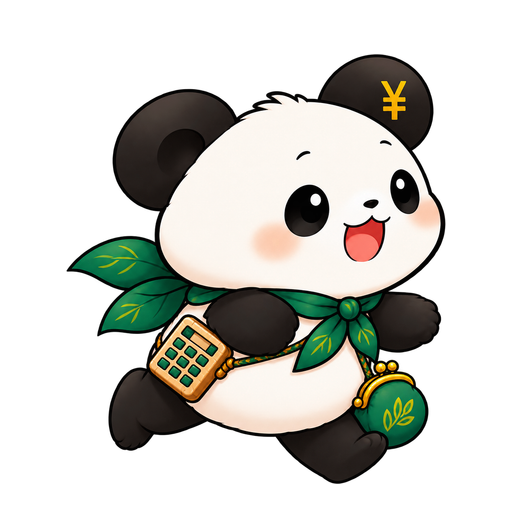
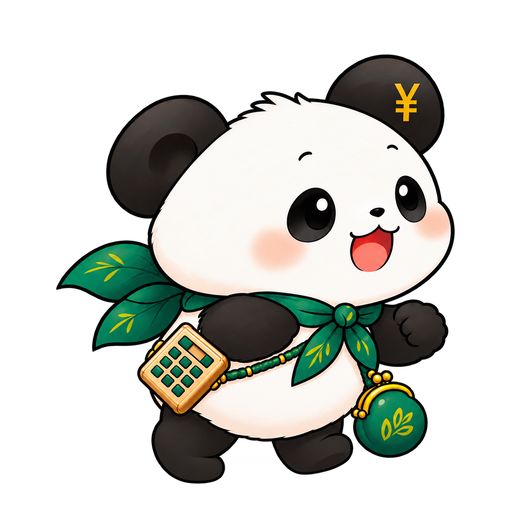
Alternate Panda Dash running legs

diff --git a/index.html b/index.html
@@ -63,5 +63,5 @@
 <dialog id="figure-dialog" aria-label="図を拡大表示"><button class="close" aria-label="図を閉じる">×</button><img alt=""></dialog>
 <dialog id="dash-dialog" aria-labelledby="dash-title"><button class="dash-close" id="dash-close" type="button" aria-label="ゲームを閉じる">×</button><span class="eyebrow">SECRET PANDA GAME</span><h2 id="dash-title">電卓ダッシュ</h2><p class="dash-lead">パンダと笹の道を走ろう。障害物が来たらジャンプ！</p><div class="dash-scores"><span>距離 <strong id="dash-score">00000</strong> m</span><span>ベスト <strong id="dash-best">00000</strong> m</span></div><div class="dash-stage"><canvas id="dash-canvas" width="800" height="300" tabindex="0" aria-label="パンダが障害物をジャンプで避けるゲーム"></canvas><div class="dash-overlay" id="dash-overlay" role="status">スタートを押してね</div></div><div class="dash-actions"><button id="dash-start" type="button">スタート</button><button id="dash-jump" type="button" disabled>ジャンプ</button></div><p class="dash-help">スマホは画面タップ、PCはスペースキー・↑キーでもジャンプ</p></dialog>
 <div id="toast" role="status" aria-live="polite"></div>
-<script src="data.js"></script><script src="app.js"></script><script src="game.js?v=4"></script>
+<script src="data.js"></script><script src="app.js"></script><script src="game.js?v=5"></script>
 </body></html>

diff --git a/game.js b/game.js
@@ -23,7 +23,7 @@
   const names = ['idle','run_01','run_02','run_03','run_04','jump_start','jump_air','jump_land','hit','fall','down','gameover'];
   const pandaImages = {}, obstacleImages = {};
   for (const name of names) {
-    const image = new Image(); image.src = 'assets/game/panda/' + name + '.png'; image.onload = draw;
+    const image = new Image(); image.src = 'assets/game/panda/' + name + '.png?v=2'; image.onload = draw;
     pandaImages[name] = image;
   }
   for (const name of Object.keys(kinds)) {
